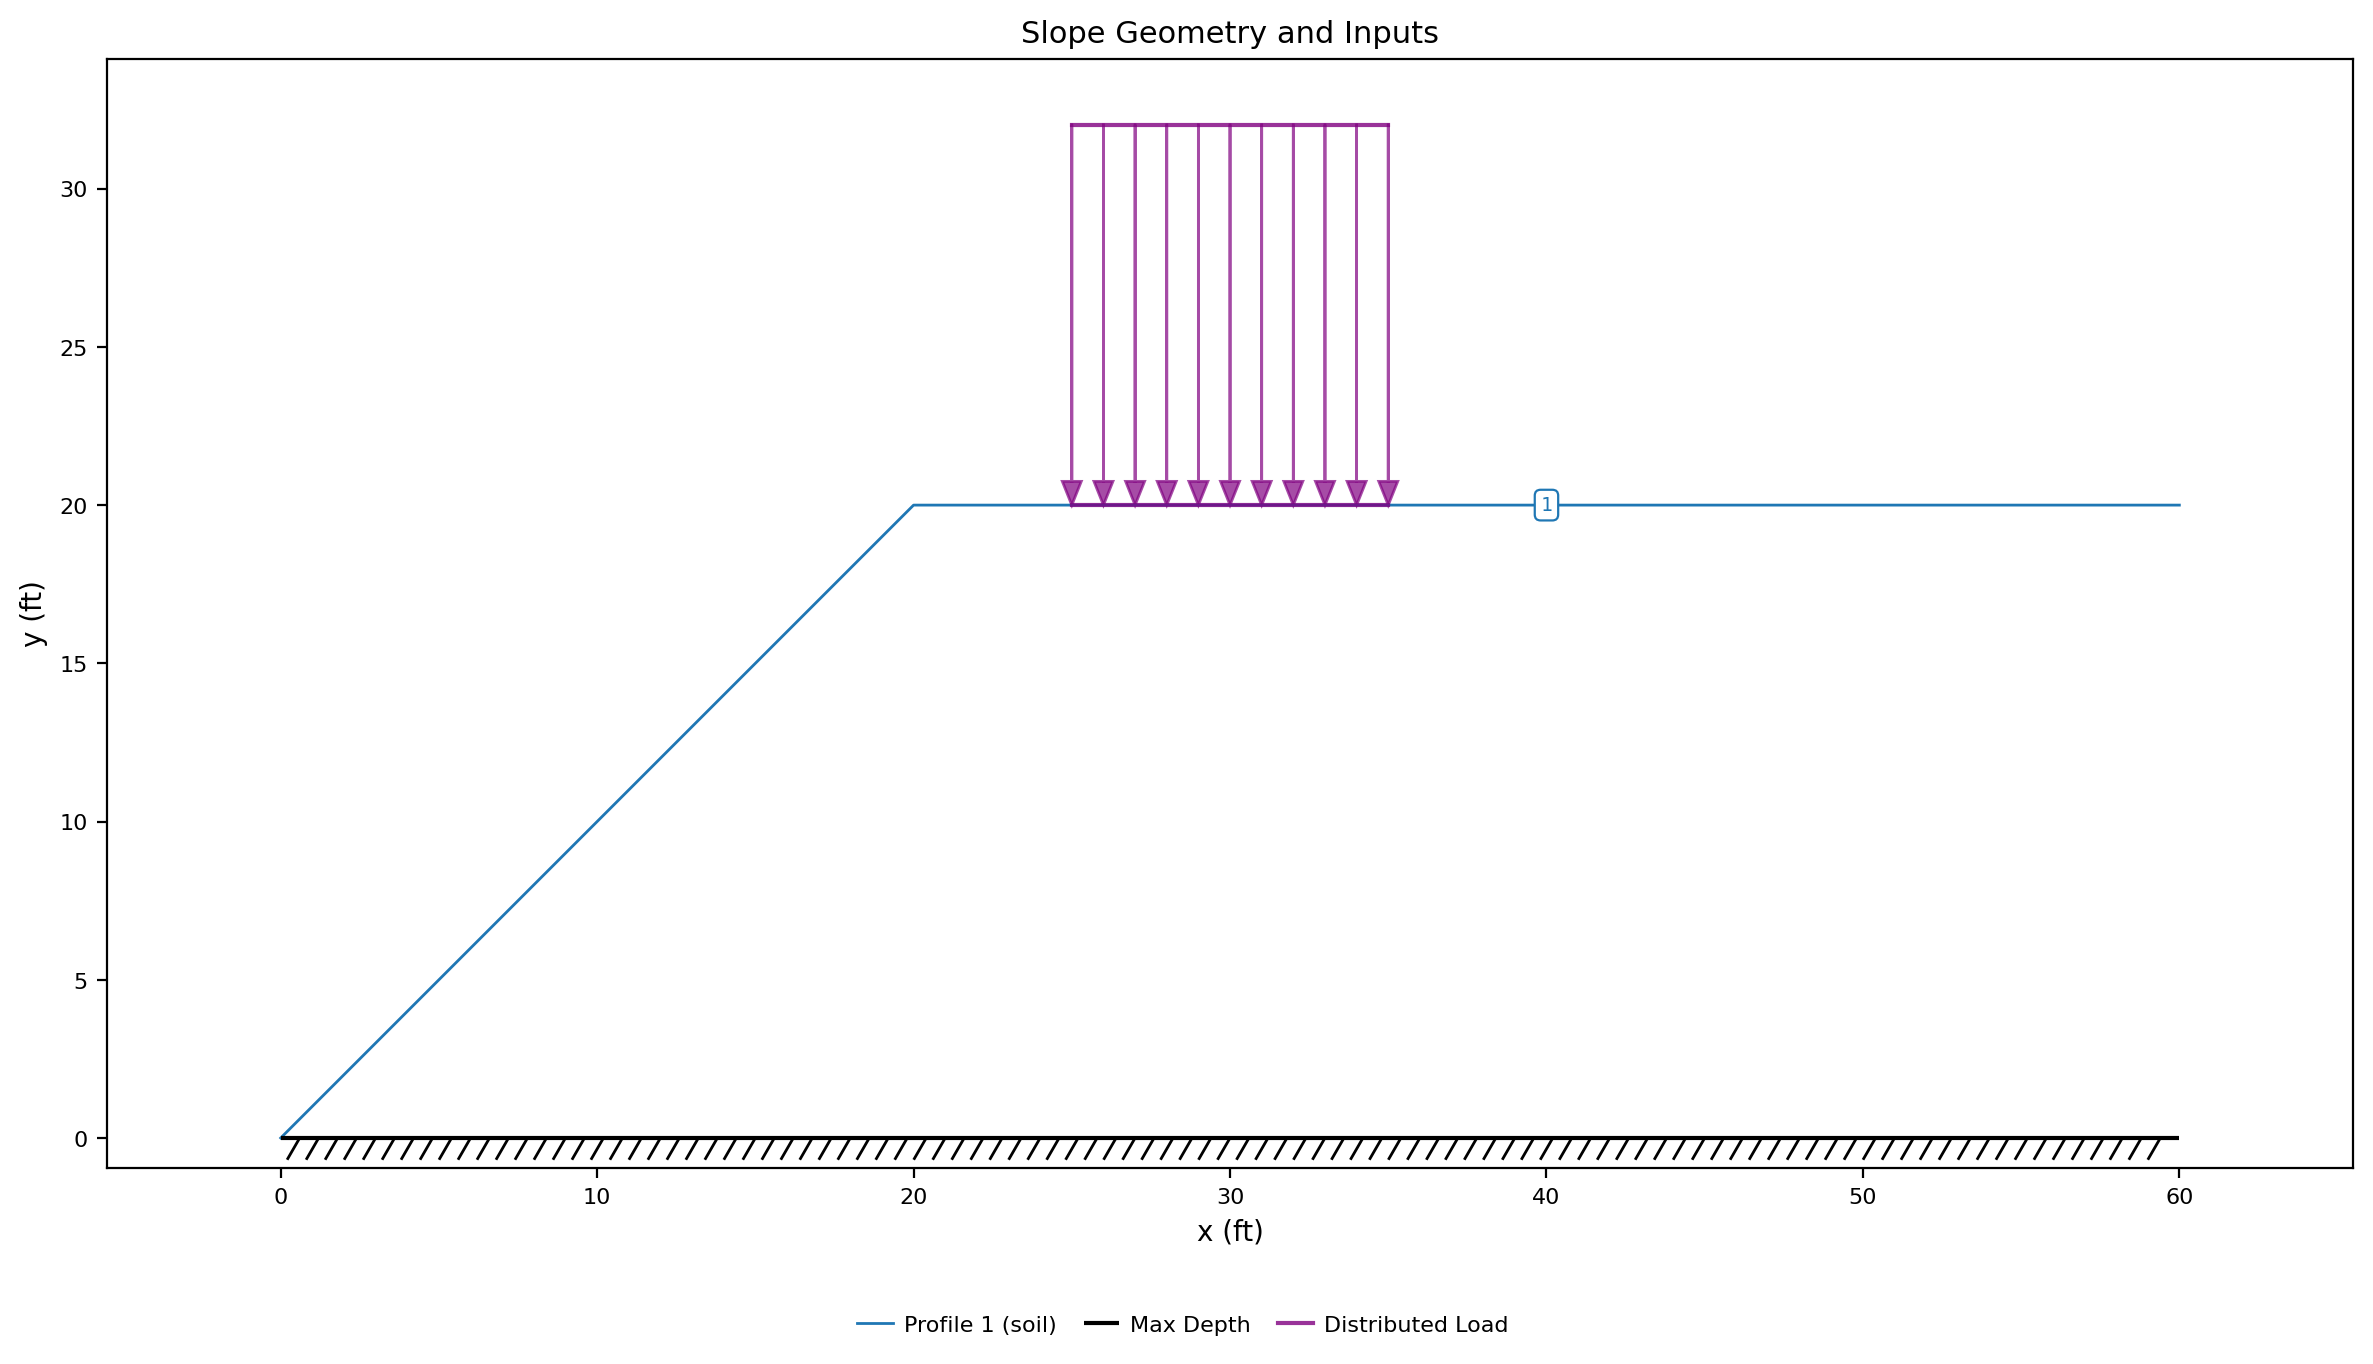
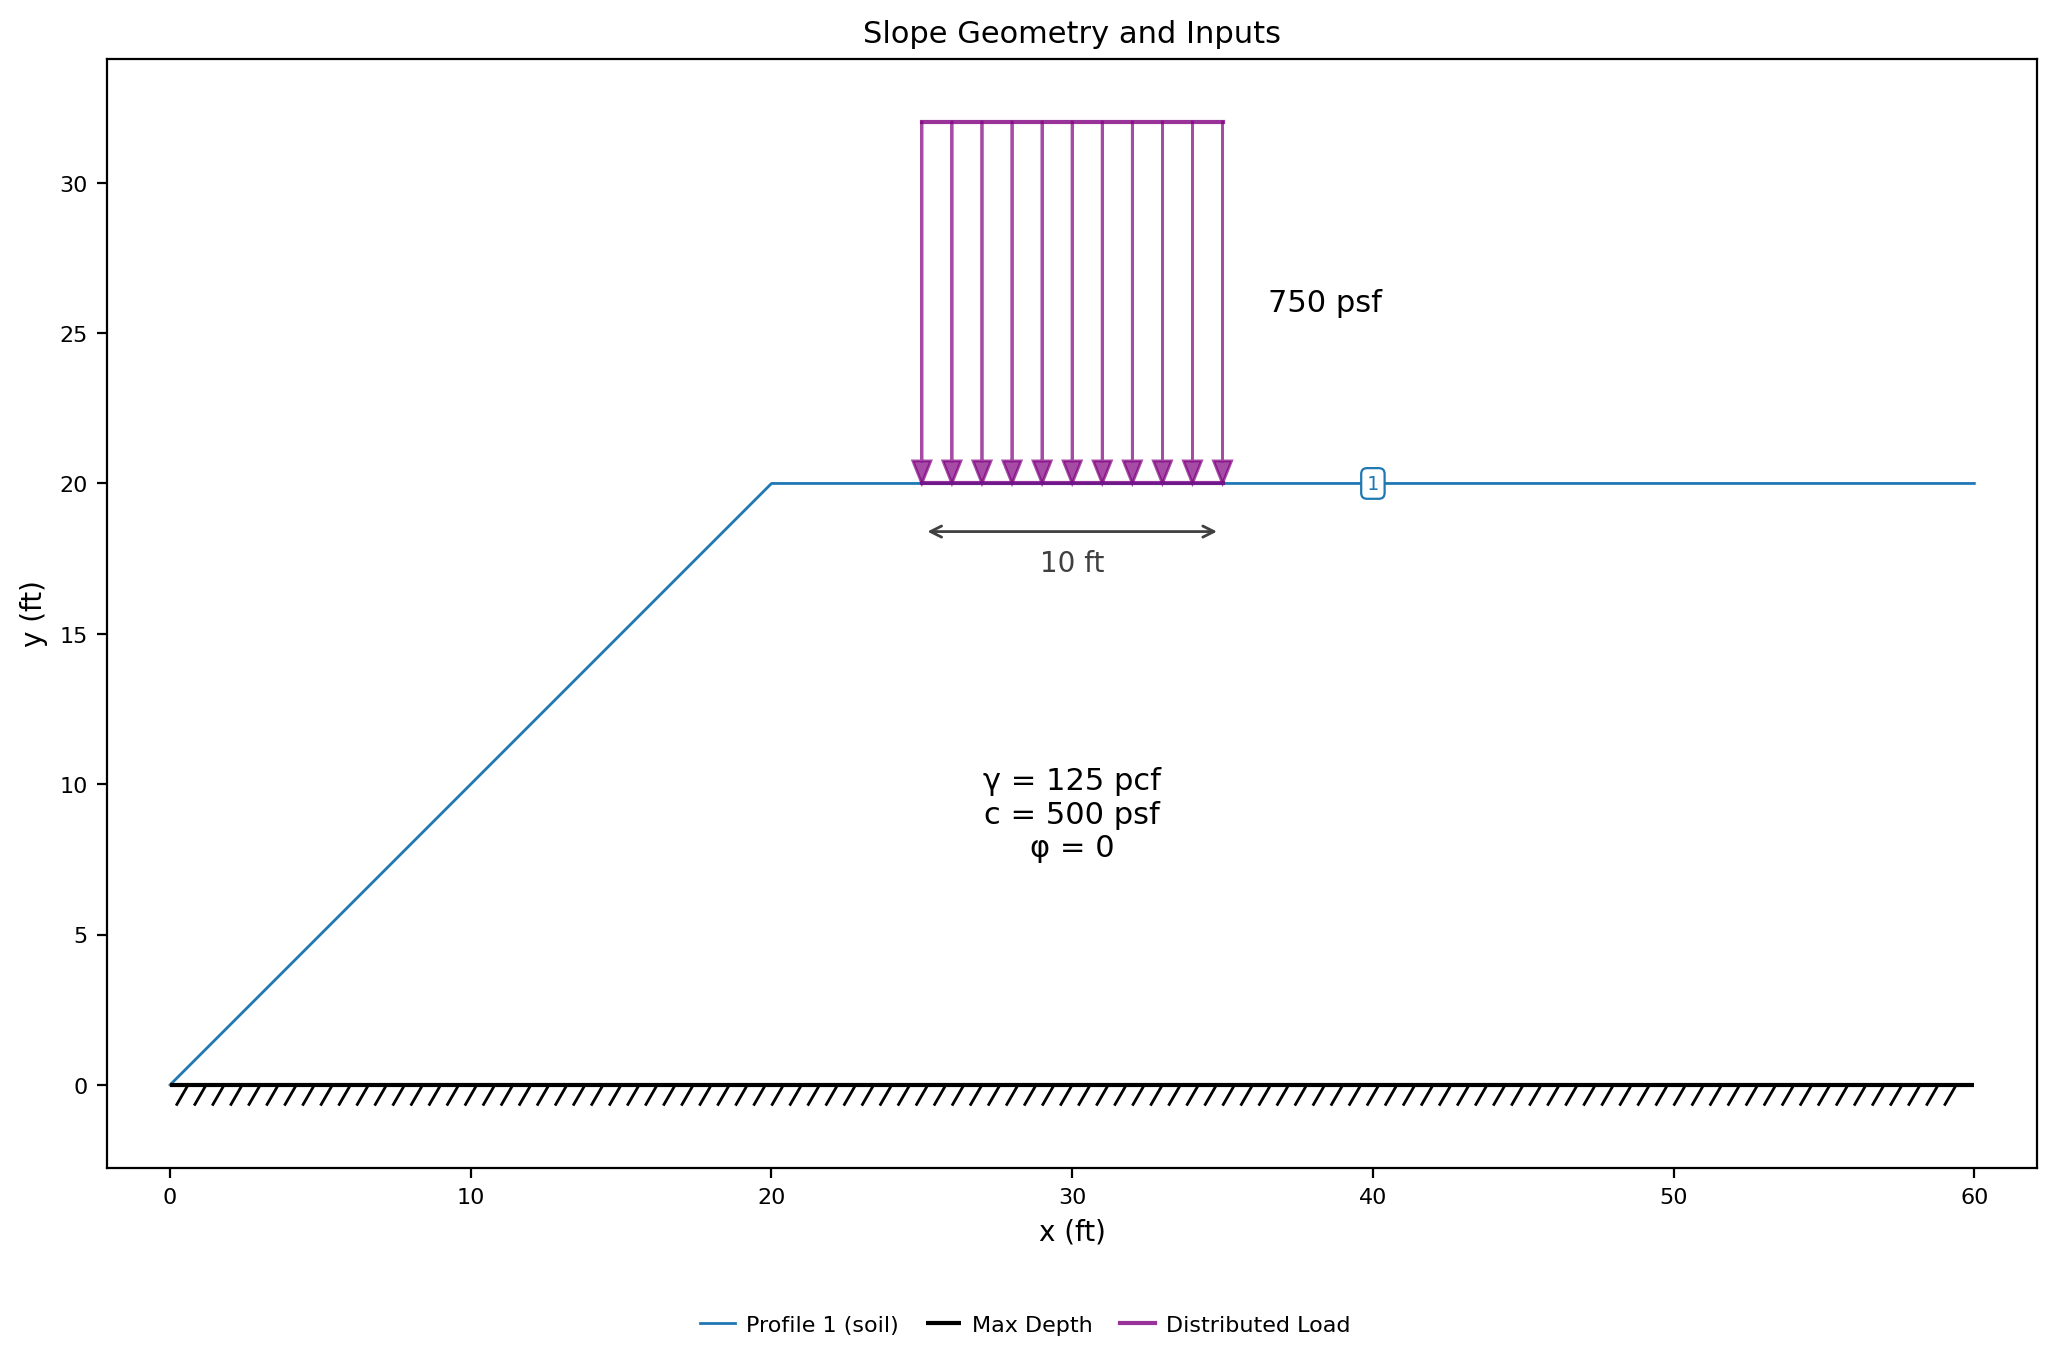
fix(docs): LEM-2's design figure carries its answer, its sketch carries the section
The design section teaches Mode = Design (FS target) and quotes c = 817 psf, but
the figure beside it was the plain sensitivity curve: the crossing the sweep
solved for appeared nowhere on the picture the sentence pointed at. Studio's
Design view draws that curve differently — plot_sensitivity for the line, then
the interpolated crossing on top (SweepCanvas.render_design). The annotation is
now xslope.plot.annotate_design_crossing, pure matplotlib and called by both, so
the figure a reader sees on the page is the one Studio would put on their
screen: green guide at the crossing, a diamond where the curve meets FS = 1.5,
and "c = 816.9 for FS = 1.5" beside it.

The problem sketch was a bare plot_inputs of a model whose numbers are the whole
problem. It is now framed to its content (frame="content") and annotated from
the model itself — γ = 125 pcf, c = 500 psf, φ = 0 in the fill, the 750 psf
intensity beside the load arrows, and the 10 ft strip dimensioned on the crest —
so it carries what LEM-1's opening sketch carries. The values are read off
slope_data rather than written into the producer, so the sketch cannot print a
property the file does not hold.

Claude-Session: https://claude.ai/code/session_01XjjT2aBxw8gY7EFdpoUcpj

diff --git a/tools/make_tutorial_figures.py b/tools/make_tutorial_figures.py
@@ -302,6 +302,53 @@ LEM02_K = 0.15                     #: the seismic coefficient the page runs
 LEM02_TARGET_FS = 1.5              #: the design target the page solves for
 
 
+@contextlib.contextmanager
+def _hold_show():
+    """Let a plot function return without saving, so the caller can draw on it.
+
+    ``capture`` saves at ``plt.show()``; a figure that gets annotations after the
+    plot function has drawn it has to suppress that first show and let capture's
+    fallback save the finished figure instead.
+    """
+    orig = plt.show
+    plt.show = lambda *a, **k: None
+    try:
+        yield
+    finally:
+        plt.show = orig
+
+
+def _lem02_problem_sketch(model):
+    """The page's opening sketch: the section, the surcharge, and the numbers.
+
+    ``frame="content"`` crops the panel to the model rather than padding the
+    section out to the figure's aspect. The strength and the load are read off
+    the model rather than written here, so the sketch cannot print a property
+    the file does not carry.
+    """
+    with _hold_show():
+        plot_inputs(model, title="Slope Geometry and Inputs", frame="content")
+    ax = plt.gcf().axes[0]
+    mat = model["materials"][0]
+    ax.text(30.0, 9.0,
+            "γ = %g pcf\nc = %g psf\nφ = %g" % (mat["gamma"], mat["c"],
+                                                          mat["phi"]),
+            ha="center", va="center", fontsize=11)
+    band = model["dloads"][0]
+    x0, x1 = band[0]["X"], band[-1]["X"]
+    q = max(pt["Normal"] for pt in band)
+    crest = max(pt["Y"] for pt in band)
+    top = crest + q / model["gamma_water"]        # how tall plot_dloads draws it
+    # The strip's width is dimensioned BELOW the loaded surface, where nothing
+    # else is drawn: above it the arrows run to the top of the frame.
+    ax.annotate("", xy=(x0, crest - 1.6), xytext=(x1, crest - 1.6),
+                arrowprops=dict(arrowstyle="<->", color="0.25", linewidth=1.0))
+    ax.text(0.5 * (x0 + x1), crest - 2.2, "%g ft" % (x1 - x0),
+            ha="center", va="top", fontsize=10, color="0.25")
+    ax.text(x1 + 1.5, 0.5 * (crest + top), "%g psf" % q,
+            ha="left", va="center", fontsize=11)
+
+
 def _lem02_search(model, method="spencer"):
     with contextlib.redirect_stdout(io.StringIO()):
         fs_cache, _, path, circles = circular_search(
@@ -349,7 +396,7 @@ def lem02_plots():
     # carry only what they are being asked about.
     problem = copy.deepcopy(sd)
     problem["circles"], problem["circular"] = [], False
-    capture("lem02_problem.png", plot_inputs, problem, title="Slope Geometry and Inputs")
+    capture("lem02_problem.png", _lem02_problem_sketch, problem)
 
     # Where the three paths rejoin: the same model with the circle back.
     capture("lem02_inputs.png", plot_inputs, sd, title="Slope Geometry and Inputs")
@@ -389,17 +436,24 @@ def lem02_plots():
 
     # The design sweep: the cohesion that would hold the target under the load.
     # Drawn from the same run the page quotes, so the crossing on the figure is
-    # the number in the sentence beside it.
+    # the number in the sentence beside it — and drawn the way Studio's Design
+    # view draws it (SweepCanvas.render_design): plot_sensitivity for the curve,
+    # then annotate_design_crossing for the answer. A design sweep whose figure
+    # showed only the curve would leave its own result off the picture.
     from xslope.sensitivity import design
-    from xslope.plot import plot_sensitivity
+    from xslope.plot import plot_sensitivity, annotate_design_crossing
     with contextlib.redirect_stdout(io.StringIO()):
         ok, res = design(copy.deepcopy(sd), param="mat:soil:c", low=500.0,
                          high=1200.0, steps=8, target_fs=LEM02_TARGET_FS,
                          method="spencer", search=True, num_slices=LEM02_SLICES)
     if not ok:
         raise SystemExit("LEM-2 design sweep failed: %s" % (res,))
-    capture("lem02_design.png", plot_sensitivity, res["df"],
-            target_fs=LEM02_TARGET_FS)
+
+    def _design_figure(summary):
+        fig = plot_sensitivity(summary["df"], target_fs=LEM02_TARGET_FS)
+        annotate_design_crossing(fig.axes[0], LEM02_TARGET_FS, summary)
+
+    capture("lem02_design.png", _design_figure, res)
 
     print("   surcharge %.4f · line load %.4f · face normal %.4f · face vertical "
           "%.4f · k=%.2f %.4f · c(FS %.1f) = %.1f"

diff --git a/xslope/plot.py b/xslope/plot.py
@@ -4981,6 +4981,49 @@ def plot_sensitivity(df, target_fs=None, figsize=(8, 5), save_png=False,
     return fig
 
 
+def annotate_design_crossing(ax, target_fs, summary):
+    """Mark a design() sweep's output=target crossing on a plot_sensitivity axes.
+
+    plot_sensitivity draws the target as a horizontal guide; a DESIGN sweep also
+    has an answer — the parameter value where the curve meets that guide,
+    interpolated between two solved points — and this puts it on the picture: a
+    vertical guide at the crossing, a diamond where the two meet, and the value
+    beside it. A sweep that never reached its target gets the reason instead, in
+    the empty band, so a figure never implies an answer the sweep did not find.
+
+    Parameters:
+        ax: the axes plot_sensitivity drew into.
+        target_fs: the design target (an FS in LEM/FEM, a discharge q in seepage).
+        summary: the design() result dict — 'param', 'output', 'bracketed',
+            'crossing', 'fs_range' and 'message' are read.
+    """
+    param = summary.get("param", "")
+    short = param.split(":")[-1] or param
+    out = summary.get("output", "FS")                # 'FS' or 'q'
+    if summary.get("bracketed") and summary.get("crossing") is not None:
+        xc = summary["crossing"]
+        ax.axvline(xc, color="#0a7d2c", linestyle="--", linewidth=1.0)
+        ax.plot([xc], [target_fs], marker="D", color="#0a7d2c", ms=9, zorder=8)
+        ax.annotate(f"{short} = {xc:.4g}\nfor {out} = {target_fs:g}",
+                    xy=(xc, target_fs), xytext=(8, 14),
+                    textcoords="offset points", color="#0a7d2c", fontsize=9,
+                    fontweight="bold", zorder=9,
+                    bbox=dict(boxstyle="round,pad=0.3", fc="white",
+                              ec="#0a7d2c", alpha=0.9))
+    else:
+        # Put the note in the empty band: just under the target line when the
+        # curve sits below the target (need a higher FS), else near the bottom.
+        fs_min = (summary.get("fs_range") or (None, None))[0]
+        below_range = fs_min is not None and target_fs < fs_min
+        y, va = (0.05, "bottom") if below_range else (0.95, "top")
+        ax.text(0.5, y, summary.get("message", "Target FS not reached."),
+                transform=ax.transAxes, ha="center", va=va, fontsize=9,
+                color="#7a5200", wrap=True, zorder=9,
+                bbox=dict(boxstyle="round,pad=0.4", fc="#fff4d6",
+                          ec="#e0b400", alpha=0.95))
+    return ax
+
+
 def _bar_chart_height_in(n_bars, per_bar_in=0.5, margin_in=1.4, min_in=2.4,
                          max_in=None):
     """Content-proportionate figure height for a categorical bar chart (tornado,

diff --git a/studio/main_window.py b/studio/main_window.py
@@ -246,34 +246,18 @@ class SweepCanvas(MplCanvas):
         self._draw(draw, dxf=False)
 
     def _annotate_crossing(self, fig, target_fs, summary):
-        """Mark the interpolated output=target crossing (or an honest miss note)."""
+        """Mark the interpolated output=target crossing (or an honest miss note).
+
+        The drawing itself is ``xslope.plot.annotate_design_crossing`` — pure
+        matplotlib, so anything that draws a design sweep outside Studio (the
+        tutorial figure producer) puts the same crossing on the same curve
+        rather than a lookalike of it.
+        """
+        from xslope.plot import annotate_design_crossing
         ax = self._main_axes()
         if ax is None:
             return
-        param = summary.get("param", "")
-        short = param.split(":")[-1] or param
-        out = summary.get("output", "FS")            # 'FS' or 'q'
-        if summary.get("bracketed") and summary.get("crossing") is not None:
-            xc = summary["crossing"]
-            ax.axvline(xc, color="#0a7d2c", linestyle="--", linewidth=1.0)
-            ax.plot([xc], [target_fs], marker="D", color="#0a7d2c", ms=9, zorder=8)
-            ax.annotate(f"{short} = {xc:.4g}\nfor {out} = {target_fs:g}",
-                        xy=(xc, target_fs), xytext=(8, 14),
-                        textcoords="offset points", color="#0a7d2c", fontsize=9,
-                        fontweight="bold", zorder=9,
-                        bbox=dict(boxstyle="round,pad=0.3", fc="white",
-                                  ec="#0a7d2c", alpha=0.9))
-        else:
-            # Put the note in the empty band: just under the target line when the
-            # curve sits below the target (need a higher FS), else near the bottom.
-            fs_min = (summary.get("fs_range") or (None, None))[0]
-            below_range = fs_min is not None and target_fs < fs_min
-            y, va = (0.05, "bottom") if below_range else (0.95, "top")
-            ax.text(0.5, y, summary.get("message", "Target FS not reached."),
-                    transform=ax.transAxes, ha="center", va=va, fontsize=9,
-                    color="#7a5200", wrap=True, zorder=9,
-                    bbox=dict(boxstyle="round,pad=0.4", fc="#fff4d6",
-                              ec="#e0b400", alpha=0.95))
+        annotate_design_crossing(ax, target_fs, summary)
 
 
 class MainWindow(QMainWindow):
